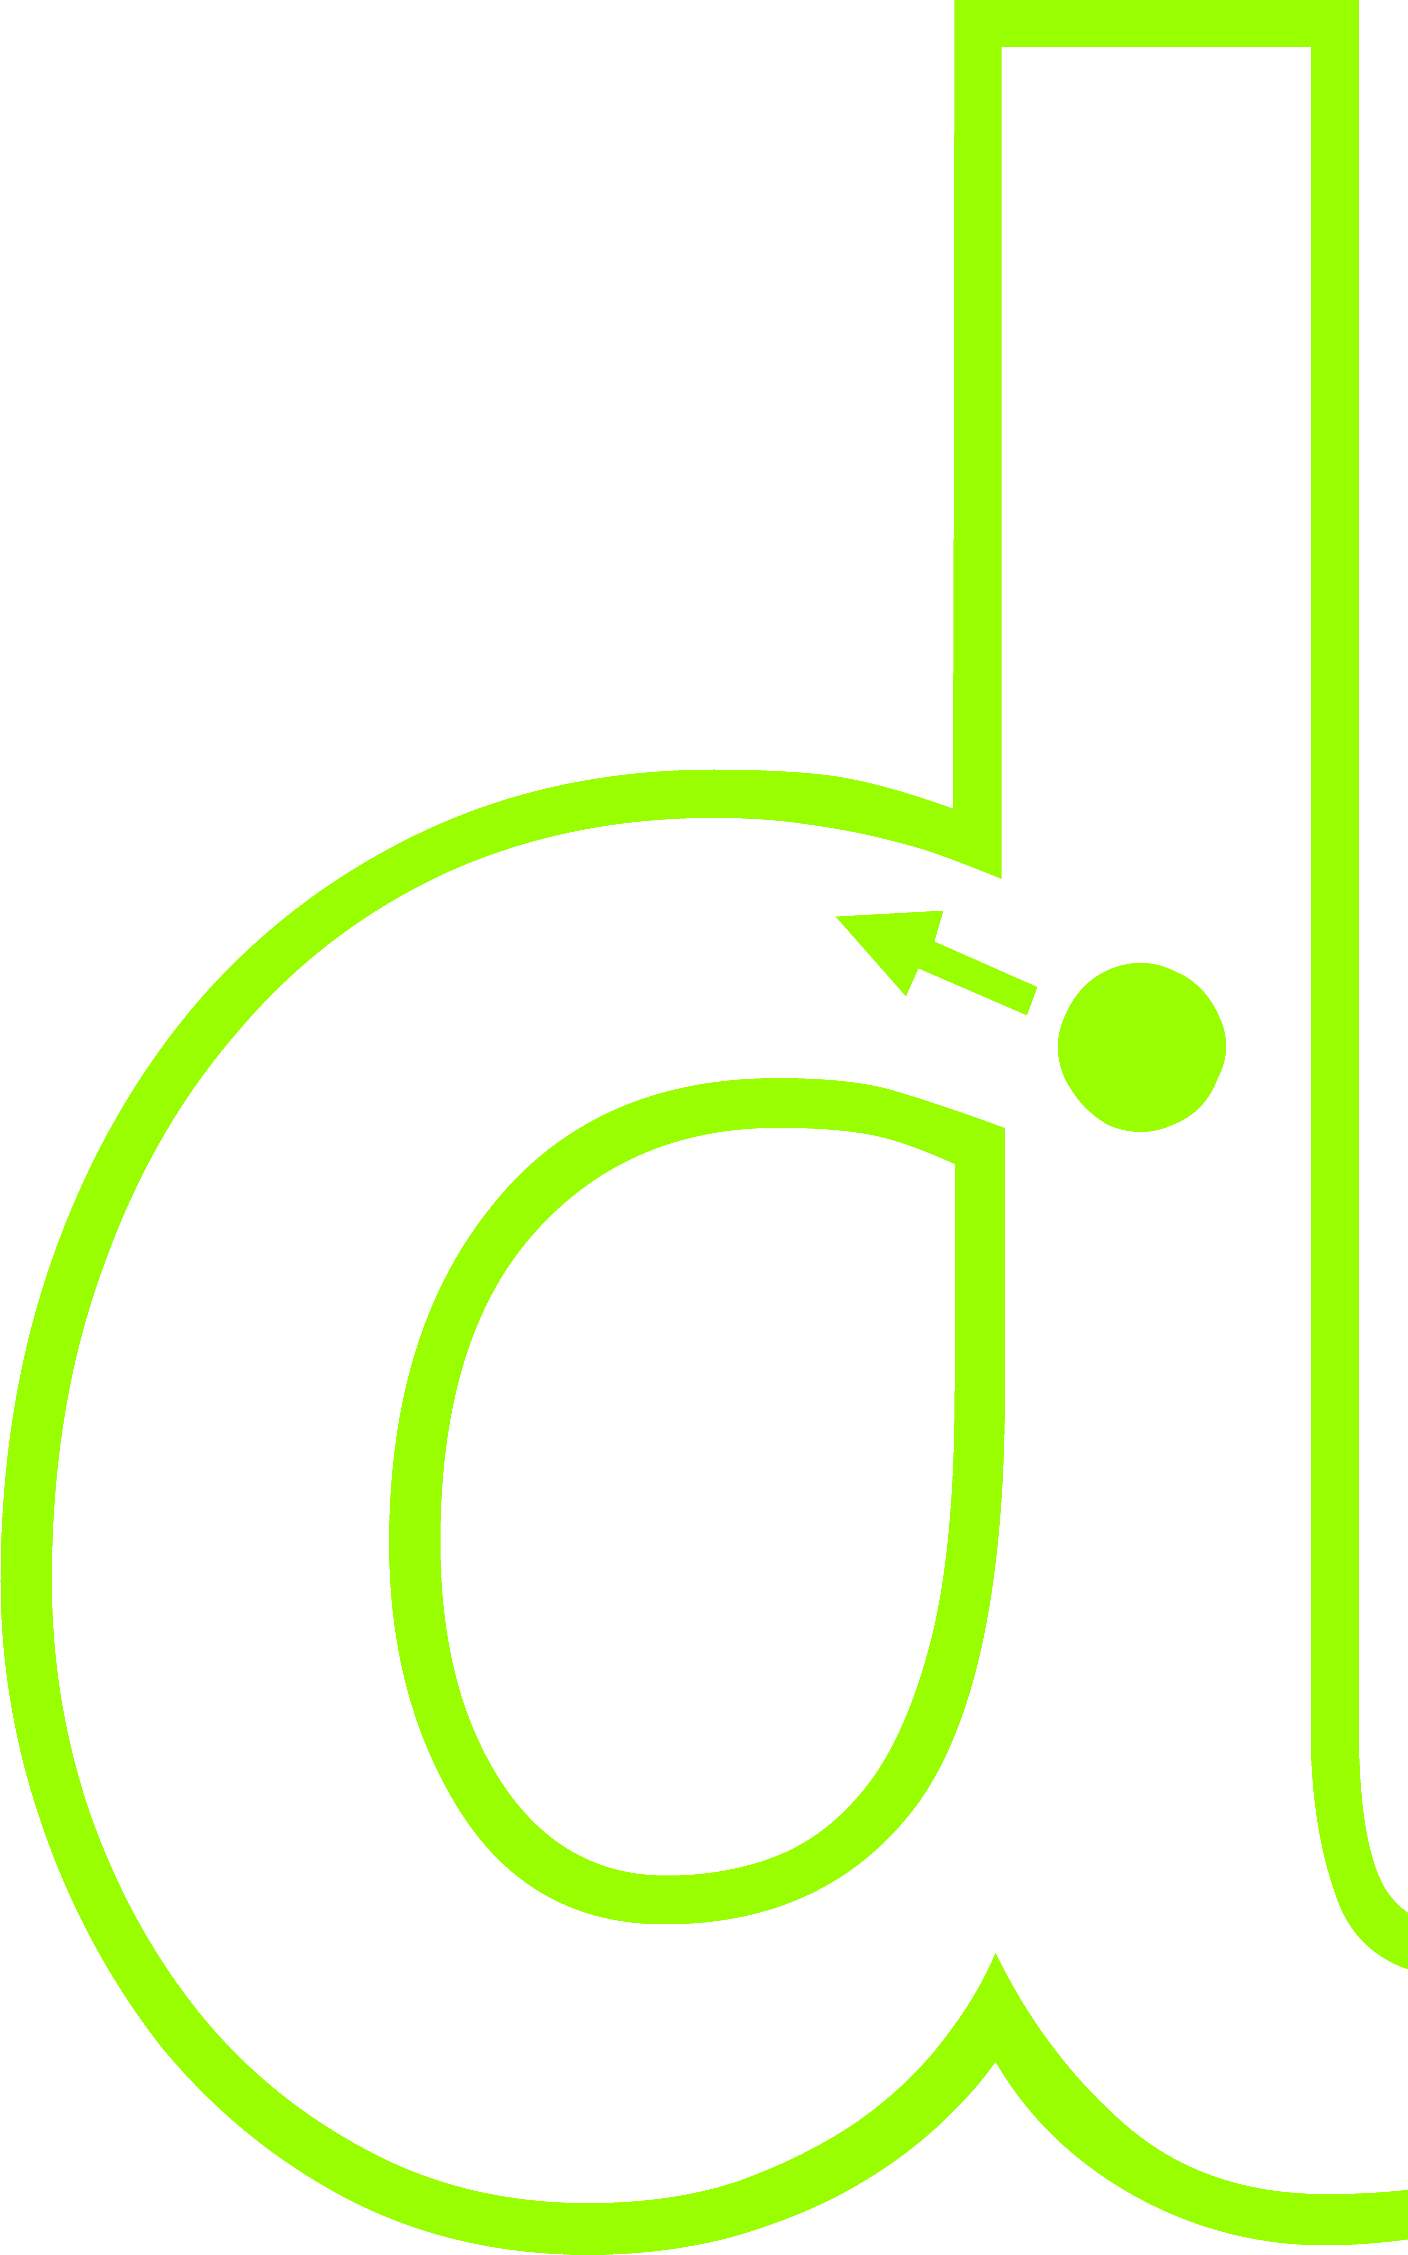
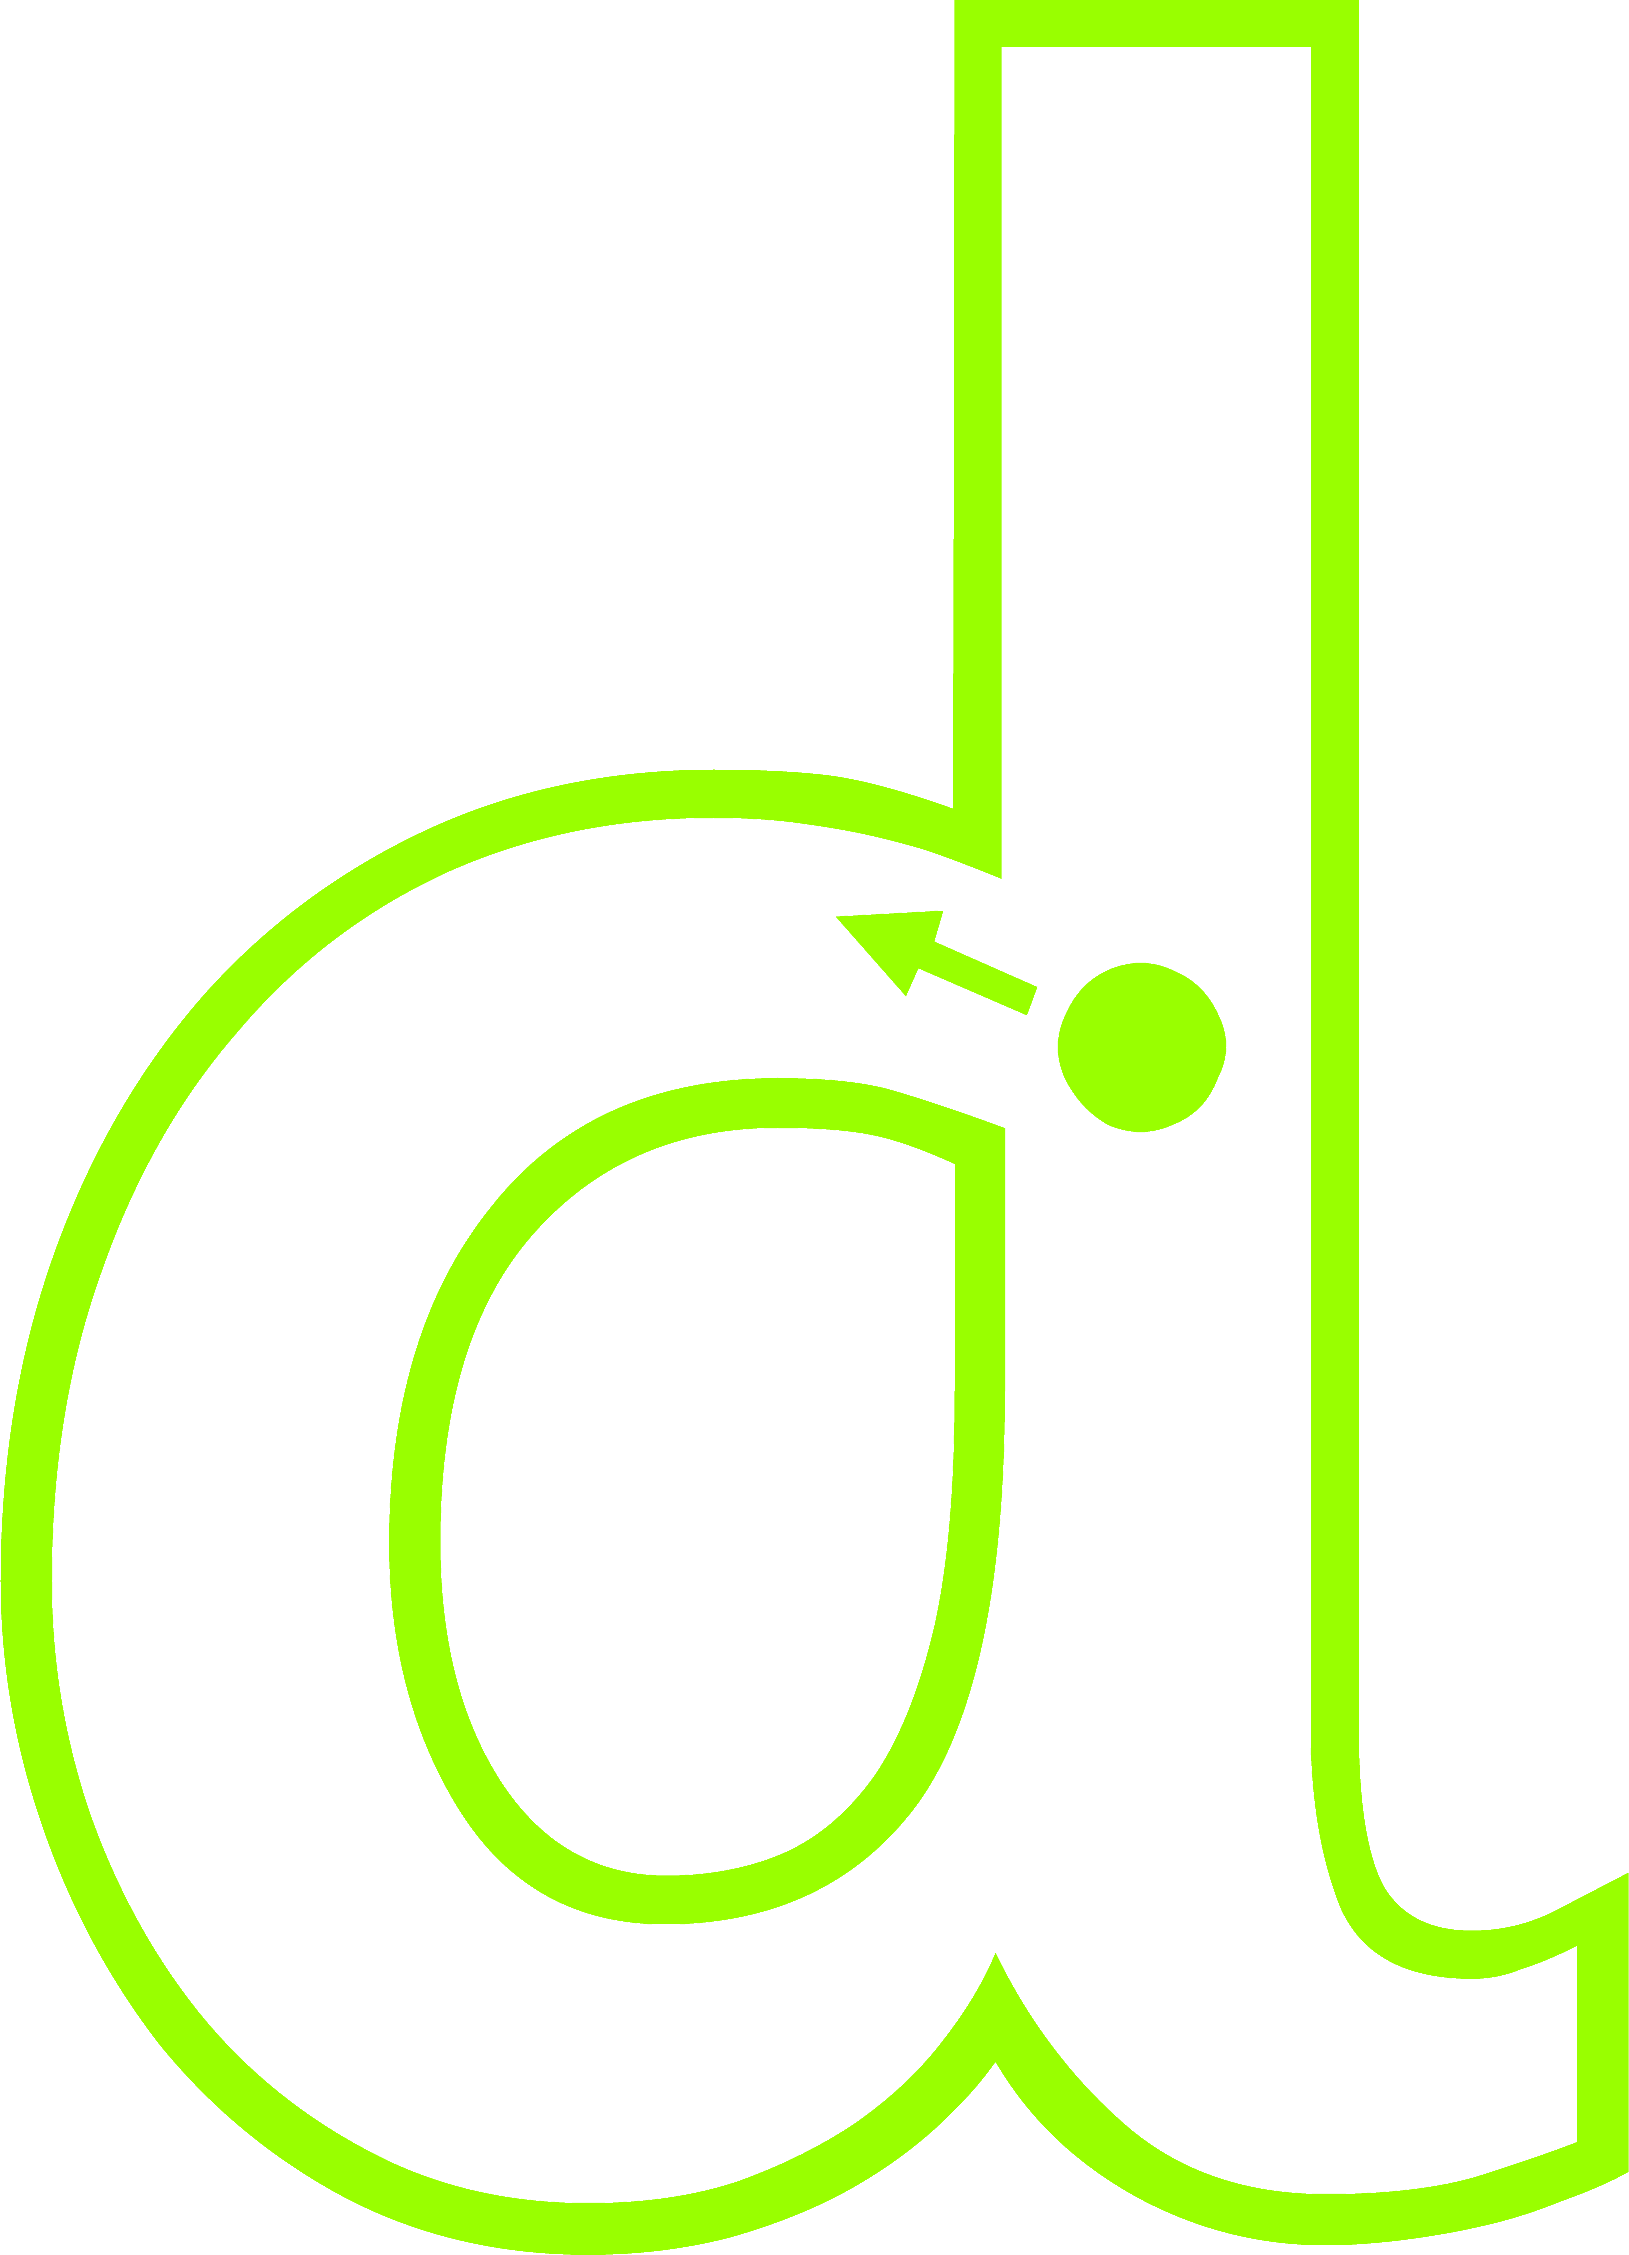
phonics d: the letter's TAIL FINISHED (Elena: «the 'tail' of the letter is not finished. It is cut») — the first crop's right edge (1835, chosen to dodge the door) sliced Genki's bottom-right hook; the hook lives BELOW the door, so the crop widens to 2120 and the green dinosaur that enters at top-ri

Changed region(s): [[0.0, 0.0, 1.0, 1.0], [0.2188, 0.4656, 0.5, 0.8692]]

diff --git a/phonics/brand-phonics-d.html b/phonics/brand-phonics-d.html
@@ -306,7 +306,7 @@ to{outline:4px solid rgba(255,201,60,0);outline-offset:12px}}
 <section class="slide">
   <div class="pres-row reveal">
     <div class="big-letter" role="button" tabindex="0" data-snd="d" aria-label="Letter d — tap to hear the sound">
-      <img class="glyph" src="genki-letters/d.png" alt="letter d">
+      <img class="glyph" src="genki-letters/d.png?v=2" alt="letter d">
     </div>
     <div class="pres-side">
       <div class="sound-chip f-yellow"><span class="snd">d-d-d…</span><span class="hint">like</span><img class="chiplogo" src="logos/disney.svg" alt="Disney"></div>
